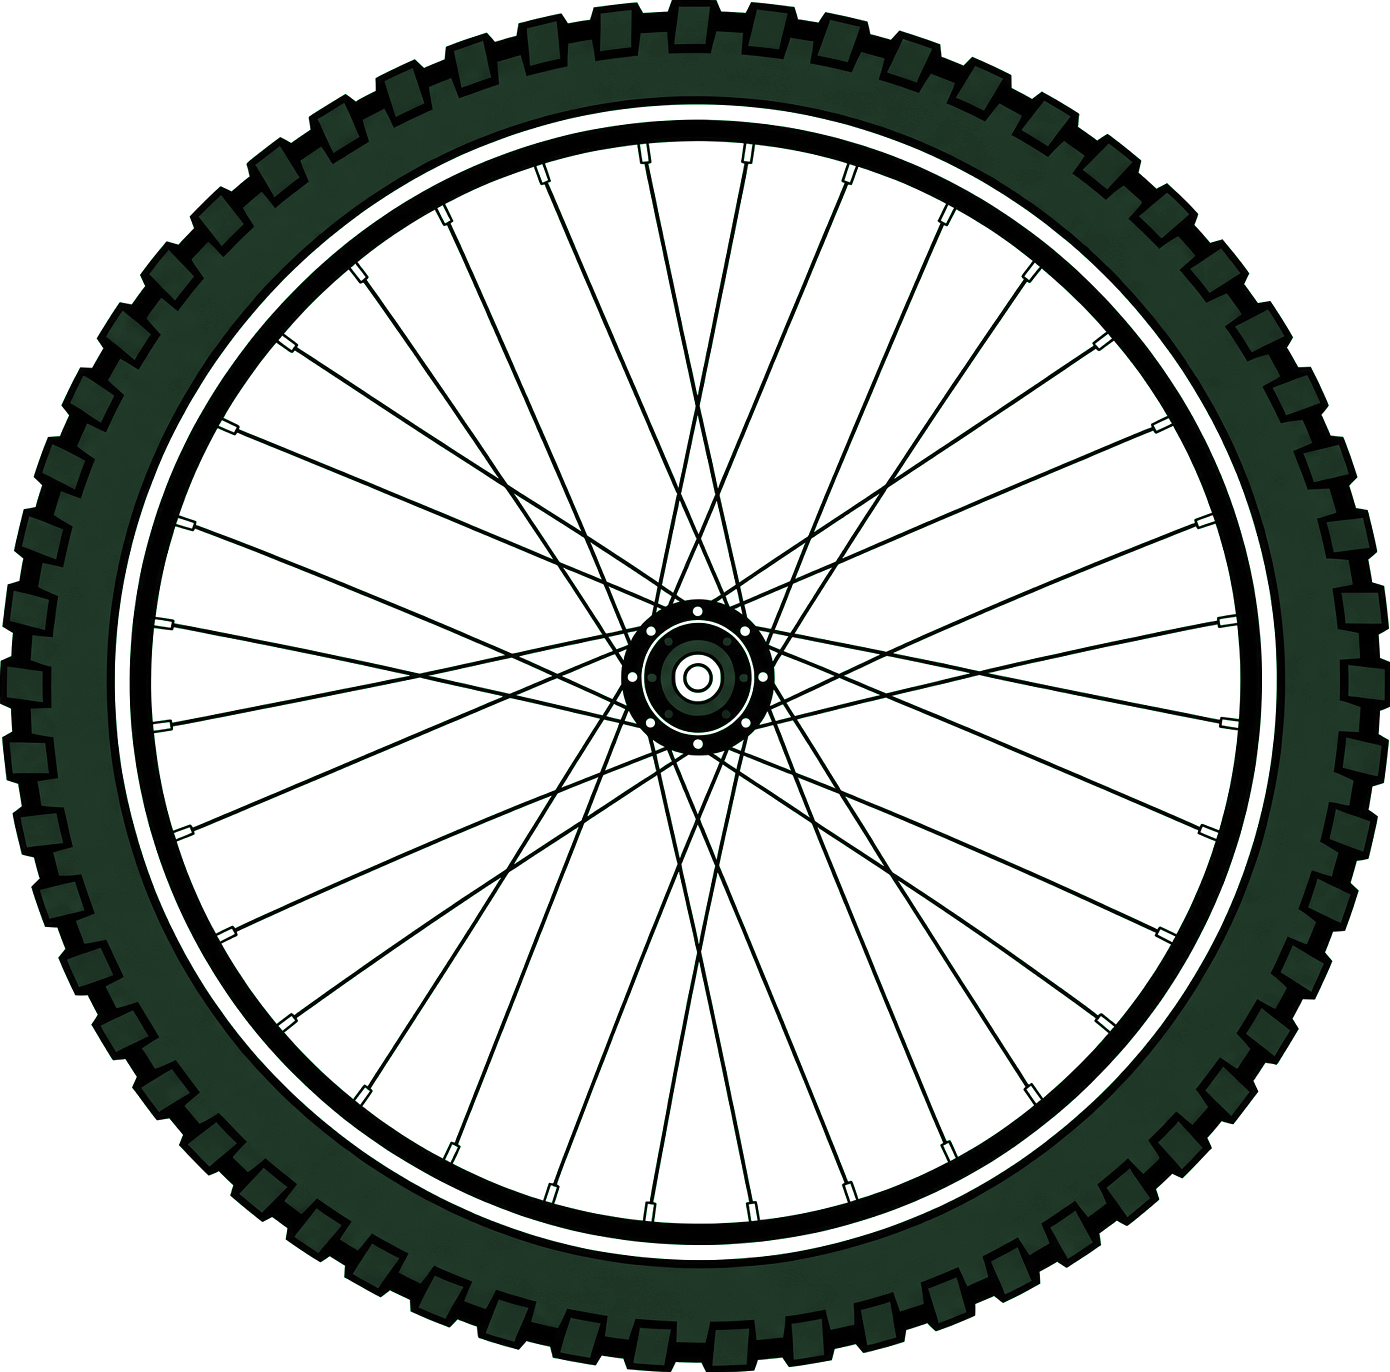
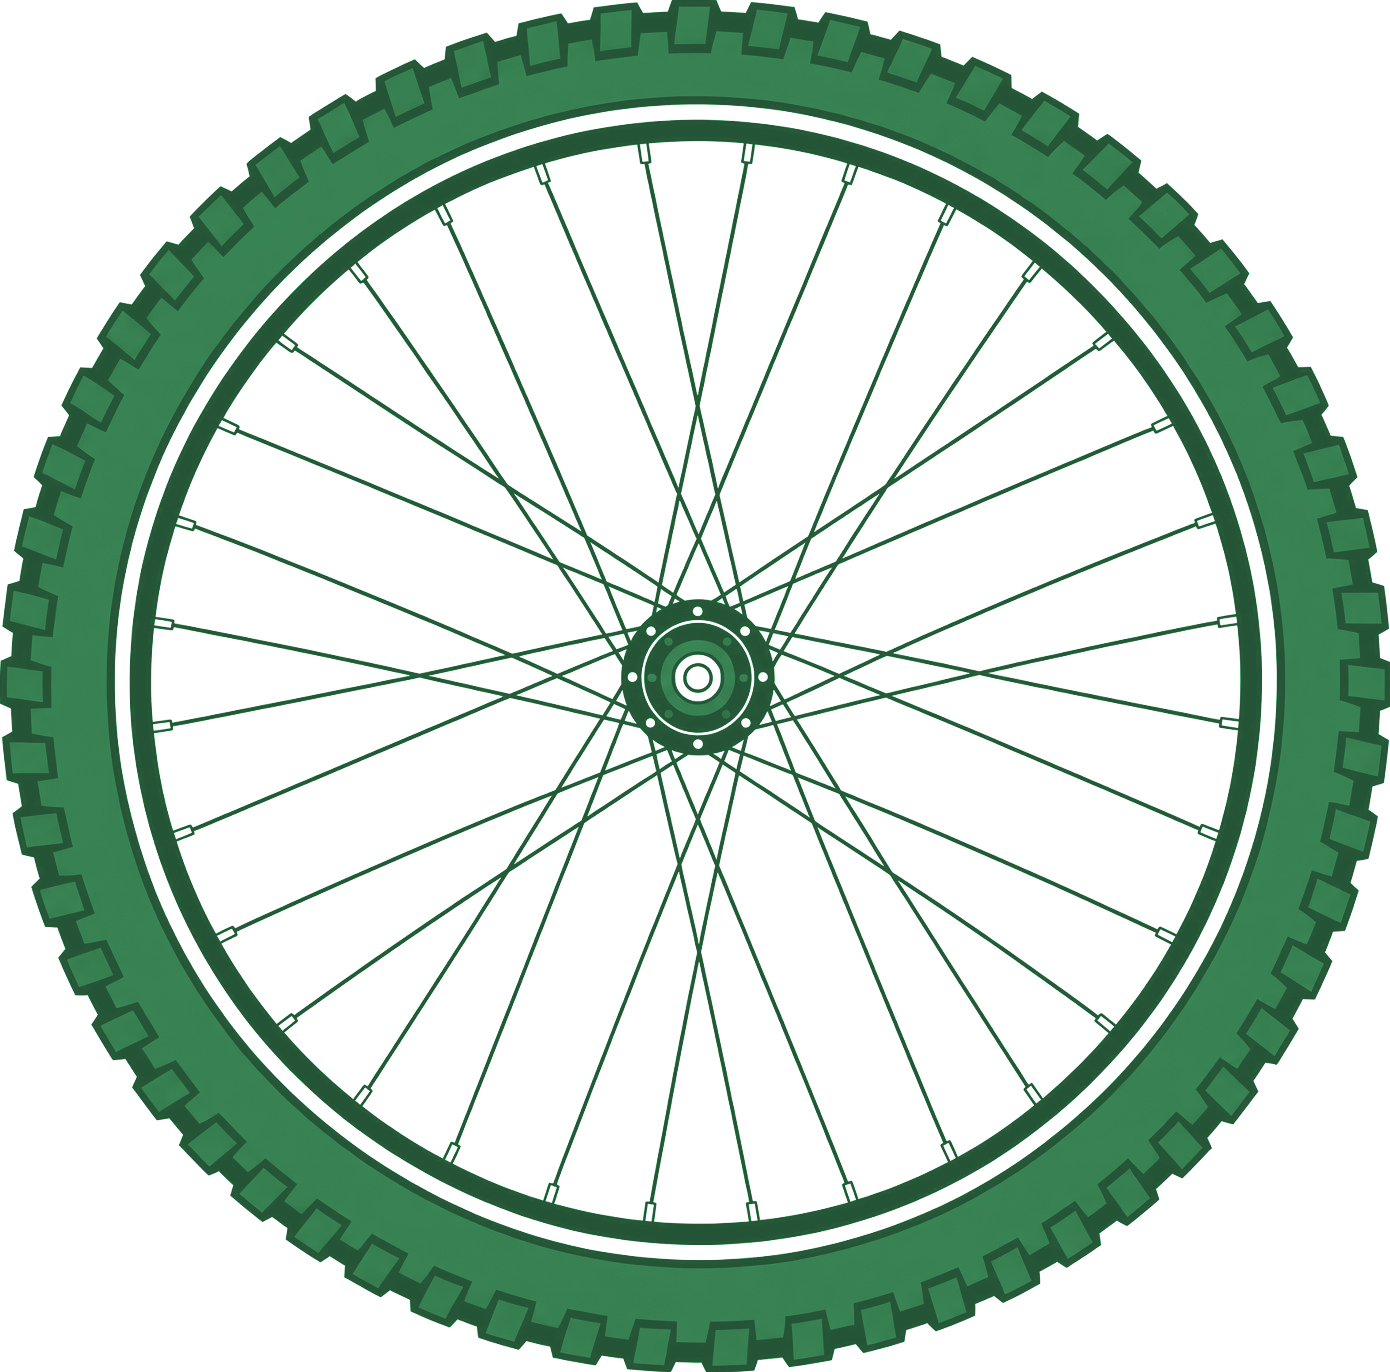
Tint the dark-theme slider, config, and zoom controls pale green.
The travel slider, config button, and fit stack now use the same light green as the pressed buttons. The dark-theme stem is a solid light-green fill of the same shape, and the wheel artwork is lightened so the tyres and rims separate from the canvas. Light theme is unchanged.

diff --git a/suspension-designer/index.html b/suspension-designer/index.html
@@ -164,6 +164,14 @@ body{margin:0;background:var(--paper);color:var(--ink);font:13px/1.45 var(--sans
    compete with initDrag()'s pointer and wheel handlers on the SVG itself. */
 #canvas-btns{position:absolute;top:10px;left:10px;z-index:9;display:flex;gap:4px;align-items:flex-start}
 #configOpen{background:#fffc;color:#16202a;backdrop-filter:blur(2px)}
+/* Dark only: these three controls were still the light-theme white/grey.
+   Pale green matches the pressed cycle/sag/static buttons and the light text. */
+[data-theme="dark"] #zoomctl button,
+[data-theme="dark"] #configOpen{
+  background:var(--anim);color:var(--on-accent);border-color:var(--shock)}
+[data-theme="dark"] #zoomctl button:hover,
+[data-theme="dark"] #configOpen:hover{
+  background:var(--ink);border-color:var(--ink)}
 #options-btn{background:var(--accent);border:none;color:#fff;
   font-family:var(--sans);font-size:10px;font-weight:700;
   padding:5px 12px;border-radius:11px;letter-spacing:.5px;cursor:pointer;
@@ -320,6 +328,23 @@ button[aria-pressed=true]{background:var(--rear);border-color:var(--rear);color:
    the pressed-state recolour) rather than getting their own. */
 .iconbtn{width:22px;height:22px;padding:0;font-size:12px;line-height:1;flex:none}
 input[type=range]{width:220px;accent-color:var(--rear)}
+/* Dark travel slider: a pale green track and thumb, same family as the
+   buttons above. The sag tick switches to the dark green text colour so it
+   still shows on that track. Light keeps the native grey slider. */
+[data-theme="dark"] #poswrap input[type=range]{
+  -webkit-appearance:none;appearance:none;height:18px;background:transparent;
+  accent-color:var(--anim)}
+[data-theme="dark"] #poswrap input[type=range]::-webkit-slider-runnable-track{
+  height:6px;background:var(--anim);border:none;border-radius:999px}
+[data-theme="dark"] #poswrap input[type=range]::-webkit-slider-thumb{
+  -webkit-appearance:none;width:16px;height:16px;margin-top:-5px;border-radius:50%;
+  background:var(--ink);border:2px solid var(--on-accent)}
+[data-theme="dark"] #poswrap input[type=range]::-moz-range-track{
+  height:6px;background:var(--anim);border:none;border-radius:999px}
+[data-theme="dark"] #poswrap input[type=range]::-moz-range-thumb{
+  width:16px;height:16px;border-radius:50%;background:var(--ink);
+  border:2px solid var(--on-accent)}
+[data-theme="dark"] #sagmark{background:var(--on-accent)}
 /* A thin red tick over the slider's own track, at the sag % of its width —
    not exact against the track's own end-padding (a native range's usable
    track is inset by half the thumb's width at each end, which a plain
@@ -3337,8 +3362,8 @@ function applyArtTheme(){
   SHOCKART.resv.src=src('shock-reservoir.png');
   SHOCKART.spring.src=src('shock-spring.png');
   SHOCKART.body.src=src('shock-body.png');
-  STEMART.src=src('stem.png');
-  WHEELART.src=src('wheel.png');
+  STEMART.src=src('stem.png')+(dark?'?v=2':'');
+  WHEELART.src=src('wheel.png')+(dark?'?v=2':'');
   JOCKEYART.src=src('jockey-wheel.png');
   SADDLEART.src=src('saddle.png');
 }
